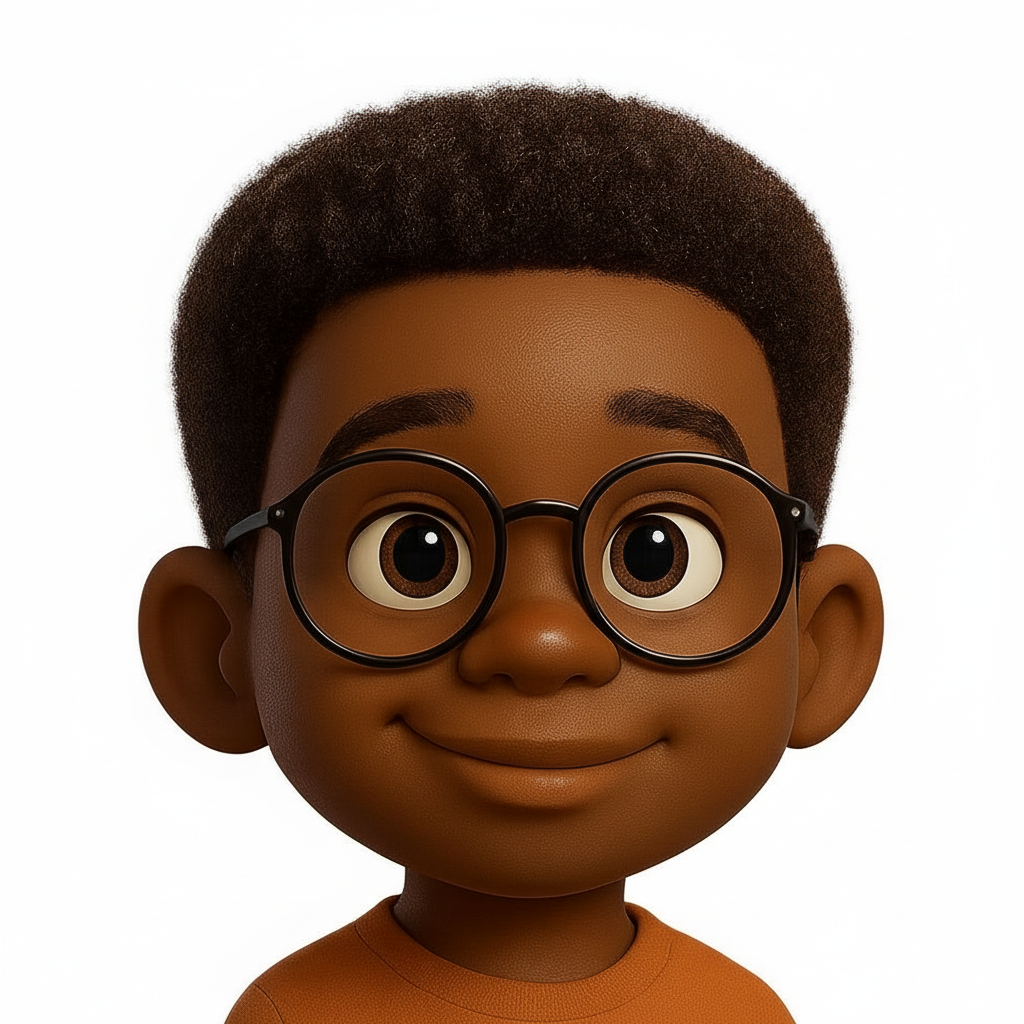
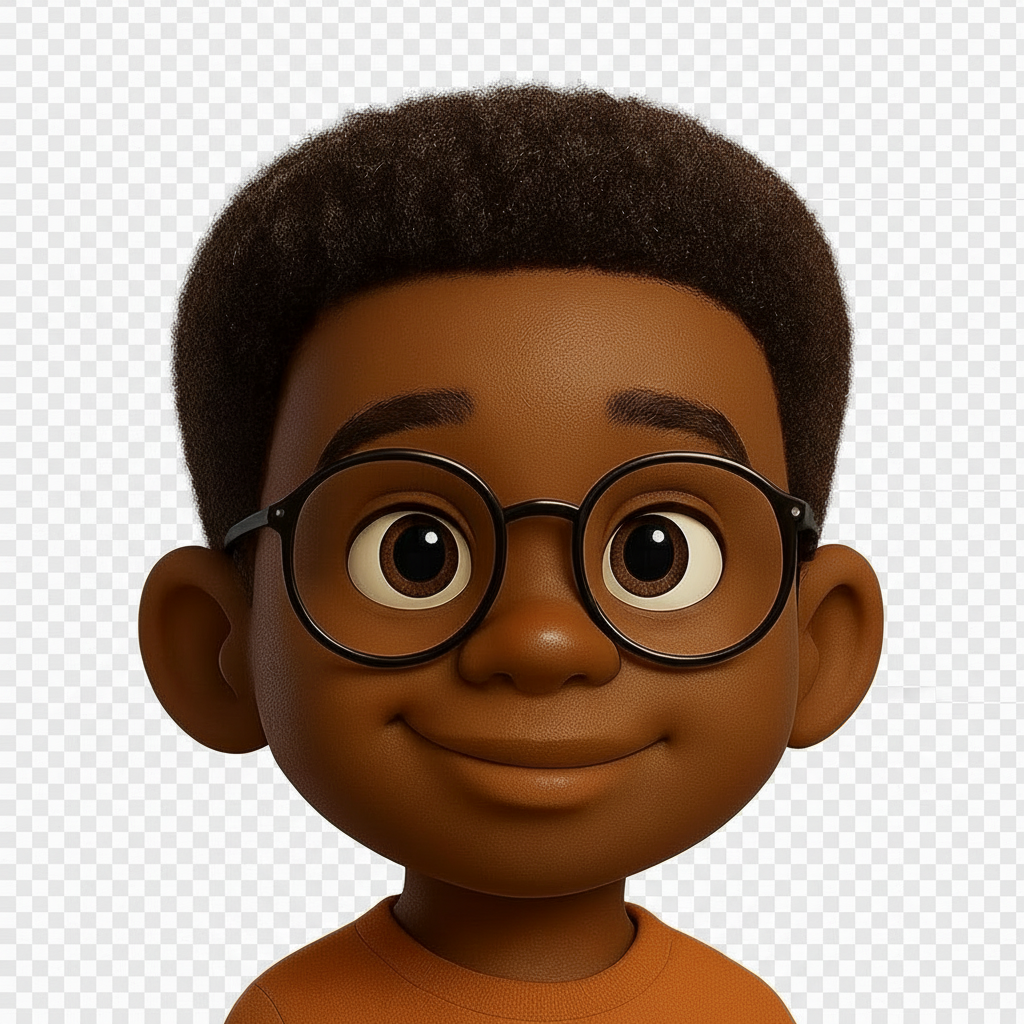
Changes

diff --git a/src/pages/Index.tsx b/src/pages/Index.tsx
@@ -654,17 +654,14 @@ const Index = () => {
               <p className="text-muted-foreground font-medium">Tout ce que vous devez savoir sur EDUPRENEURS</p>
             </div>
             <div className="flex-shrink-0">
-              <div className="w-40 sm:w-52 md:w-60 h-40 sm:h-52 md:h-60 rounded-xl overflow-hidden animate-float border border-primary/20 shadow-lg">
-                <picture>
-                  <source srcSet="/images/jude-profile.webp" type="image/webp" />
-                  <img
-                    src="/images/jude-profile.png"
-                    alt="Jude - Assistant FAQ"
-                    className="w-full h-full object-cover"
-                    loading="lazy"
-                    decoding="async"
-                  />
-                </picture>
+              <div className="w-40 sm:w-52 md:w-60 h-40 sm:h-52 md:h-60 flex items-center justify-center animate-float">
+                <img
+                  src="/images/jude-profile.webp"
+                  alt="Jude - Assistant FAQ"
+                  className="w-full h-full object-contain"
+                  loading="lazy"
+                  decoding="async"
+                />
               </div>
             </div>
           </div>
